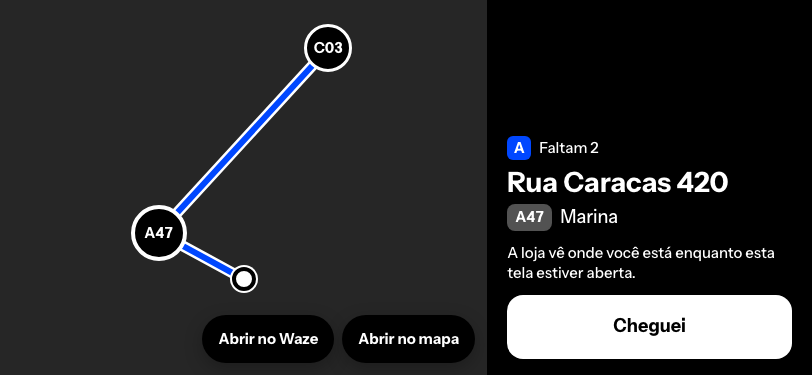
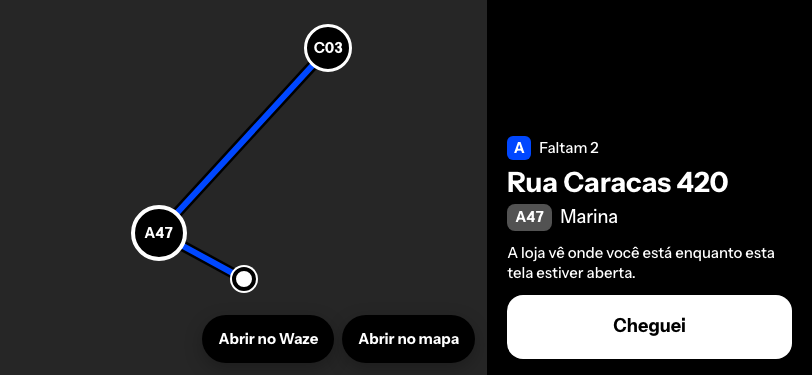
feat(entregas): contorno do mapa do entregador na escolha "a" do dono (#2509)
Pontos com contorno na cor invertida e a linha da rota com contorno na cor do tema.

Changed region(s): [[0.2155, 0.176, 0.4002, 0.5867], [0.2155, 0.6453, 0.3079, 0.7333]]

diff --git a/surfaces/storefront-nuxt/app/components/CourierRouteMap.vue b/surfaces/storefront-nuxt/app/components/CourierRouteMap.vue
@@ -54,6 +54,9 @@ const path = computed(() => line.value.map((q, i) => `${i ? 'L' : 'M'}${q.x.toFi
 const pins = computed(() => props.stops.map(stop => ({ ...stop, ...px(stop) })))
 const me = computed(() => (props.here ? px(props.here) : null))
 const ink = computed(() => (props.dark ? '#ffffff' : '#000000'))
+// O contorno escolhido pelo dono (21/11, opção "a"): os pontos na cor invertida (a borda
+// em --cr-fg) e a linha da rota na cor do TEMA, branca no claro e preta no escuro.
+const paper = computed(() => (props.dark ? '#000000' : '#ffffff'))
 
 // Sem POI e sem ônibus; no escuro, o papel escuro. Paleta neutra da página.
 function styles (dark: boolean): google.maps.MapTypeStyle[] {
@@ -144,7 +147,7 @@ onBeforeUnmount(() => {
     <div ref="canvas" class="crm-canvas" aria-hidden="true" />
     <svg v-if="size.w" class="crm-layer" :viewBox="`0 0 ${size.w} ${size.h}`" aria-hidden="true">
       <template v-if="line.length > 1">
-        <path :d="path" fill="none" :stroke="ink" stroke-width="11" stroke-linejoin="round" stroke-linecap="round" />
+        <path :d="path" fill="none" :stroke="paper" stroke-width="11" stroke-linejoin="round" stroke-linecap="round" data-route-outline />
         <path :d="path" fill="none" :stroke="tone?.bg || ink" stroke-width="6" stroke-linejoin="round" stroke-linecap="round" />
       </template>
     </svg>

diff --git a/surfaces/storefront-nuxt/tests/e2e/courierRide.spec.ts b/surfaces/storefront-nuxt/tests/e2e/courierRide.spec.ts
@@ -348,6 +348,11 @@ for (const theme of ['light', 'dark'] as const) {
         await expect(page.getByRole('button', { name: 'Cheguei' })).toBeInViewport()
         const box = await page.getByRole('button', { name: 'Cheguei' }).boundingBox()
         expect(box!.height).toBeGreaterThanOrEqual(56)
+        // O contorno escolhido pelo dono (opção "a"): pontos na cor invertida, linha na cor do tema.
+        const paper = theme === 'light' ? '#ffffff' : '#000000'
+        const inverted = theme === 'light' ? 'rgb(0, 0, 0)' : 'rgb(255, 255, 255)'
+        await expect(map.locator('[data-route-outline]')).toHaveAttribute('stroke', paper)
+        await expect(map.locator('[data-map-stop="A47"]')).toHaveCSS('border-top-color', inverted)
         await check(page, `04d-mapa-${theme}-${size}`)
       })
     })
